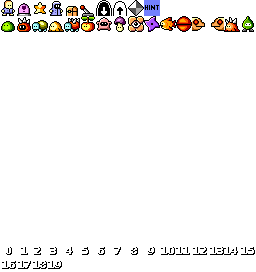
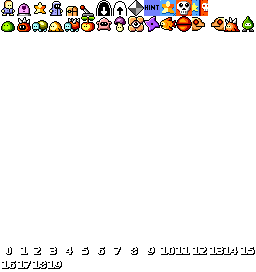
Giant orbs

Changed region(s): [[0.625, 0.0, 0.8125, 0.0588]]

diff --git a/src/orb.ts b/src/orb.ts
@@ -1,0 +1,108 @@
+import { Camera } from "./camera.js";
+import { Canvas } from "./canvas.js";
+import { CoreEvent } from "./core.js";
+import { StrongInteractionTarget } from "./interactiontarget.js";
+import { MessageBox } from "./messagebox.js";
+import { Player } from "./player.js";
+import { ProgressManager } from "./progress.js";
+import { Sprite } from "./sprite.js";
+import { Vector2 } from "./vector.js";
+
+
+export class Orb extends StrongInteractionTarget {
+
+
+    private wave : number;
+    private broken : boolean;
+
+    private itemCount : number;
+
+    private readonly message : MessageBox;
+    private readonly progress : ProgressManager;
+    
+    public readonly id : number;
+
+
+    constructor(x : number, y : number, id : number, message : MessageBox, progress : ProgressManager) {
+
+        super(x, y, true);
+
+        this.spr = new Sprite(32, 32);
+        this.spr.setFrame(id, 0);
+
+        this.hitbox = new Vector2(16, 8);
+
+        this.wave = 0.0;
+        this.broken = false;
+        this.id = id;
+
+        this.message = message;
+        this.progress = progress;
+
+        this.itemCount = 0;
+
+        // this.offCameraRadius = 16;
+    }
+
+
+    public setItemCount(c : number) {
+
+        this.itemCount = c;
+    }
+
+
+    protected interactionEvent(player : Player, camera : Camera, event : CoreEvent) {
+
+        // let msg : Array<string>;        
+    }
+
+
+    protected updateLogic(event : CoreEvent) {
+
+        const WAVE_SPEED = 0.067;
+
+        this.wave = (this.wave + WAVE_SPEED*event.step) % (Math.PI*2);
+    }
+
+
+    public draw(canvas : Canvas) {
+
+        const Y_OFF = -4;
+        const AMPLITUDE = 3;
+
+        let bmp = canvas.assets.getBitmap("orb");
+
+        if (!this.inCamera || this.broken) return;
+
+        let y = this.pos.y-24 + Y_OFF + Math.round(Math.sin(this.wave) * AMPLITUDE);
+
+        canvas.drawSprite(this.spr, bmp, 
+            this.pos.x - this.spr.width/2, y);
+    }
+
+
+    public postDraw(canvas : Canvas) {
+
+        const TYPE = ["stars", "kills"];
+        const SYMBOL = [":", "="];
+        const TEXT_OFF = -45;
+
+        if (!this.inCamera || this.broken) return;
+
+        let s = String(String(this.progress.getNumberProperty(TYPE[this.id], 0))) 
+            + "/" + String(this.itemCount);
+
+        let font = canvas.assets.getBitmap("fontBig");
+
+        canvas.drawText(font, SYMBOL[this.id], this.pos.x - s.length*4 - 8, 
+            this.pos.y+TEXT_OFF, -8, 0, true);
+        canvas.drawText(font, s, this.pos.x, this.pos.y+TEXT_OFF, -8, 0, true);
+    }
+
+
+    public breakSeal() {
+
+        this.broken = true;
+        this.spr.setFrame(this.id, 1);
+    }
+}

diff --git a/src/objectmanager.ts b/src/objectmanager.ts
@@ -22,6 +22,7 @@ import { TransitionEffectType } from "./transition.js";
 import { HintBox } from "./hintbox.js";
 import { HintTrigger } from "./hinttrigger.js";
 import { INSIDE_THEME_VOLUME, THEME_VOLUME } from "./game.js";
+import { Orb } from "./orb.js";
 
 
 export type SpawnProjectileCallback = 
@@ -66,6 +67,7 @@ export class ObjectManager {
     private chests : Array<Chest>;
     private checkpoints : Array<SavePoint>;
     private hintTriggers : Array<HintTrigger>;
+    private orbs : Array<Orb>;
 
     private readonly message : MessageBox;
     private readonly progress : ProgressManager;
@@ -100,6 +102,7 @@ export class ObjectManager {
         this.strongInteractionTargets = new Array<StrongInteractionTarget> ();
         this.doors = new Array<Door> ();
         this.enemies = new Array<Enemy> ();
+        this.orbs = new Array<Orb> ();
 
         this.stars = new Array<Star> ();
         this.chests = new Array<Chest> ();
@@ -114,6 +117,24 @@ export class ObjectManager {
         this.mergeDoorsToGeneralArray();
 
         camera.focusOnObject(this.player);
+
+        this.passItemCountToOrbs();
+    }
+
+
+    private passItemCountToOrbs() {
+
+        for (let o of this.orbs) {
+
+            if (o.id == 0) {
+
+                o.setItemCount(this.stars.length);
+            }
+            else if (o.id == 1) {
+
+                o.setItemCount(this.enemies.length);
+            }
+        }
     }
 
 
@@ -198,6 +219,14 @@ export class ObjectManager {
             this.message, this.saveManager);
         this.strongInteractionTargets.push(o);
         this.checkpoints.push(o);
+    }
+
+
+    public addOrb(x : number, y : number, id : number) {
+
+        let o = new Orb(x*16+8, y*16+8, id, this.message, this.progress);
+        this.strongInteractionTargets.push(o);
+        this.orbs.push(o);
     }
 
 
@@ -388,6 +417,11 @@ export class ObjectManager {
         for (let p of this.projectiles) {
 
             p.draw(canvas);
+        }
+
+        for (let o of this.strongInteractionTargets) {
+
+            o.postDraw(canvas);
         }
     }
 

diff --git a/src/stage.ts b/src/stage.ts
@@ -422,6 +422,17 @@ export class Stage {
                     objects.addHintTrigger(x, y, id, event);
                     break;
 
+                // Orbs
+                case 11:
+                case 12:
+                    objects.addOrb(x, y, tid-11);
+                    break;
+
+                // Portal
+                case 13:
+                    // ...
+                    break;
+
                 default:
 
                     if (tid >= 17 && tid < 17+16) {

diff --git a/src/player.ts b/src/player.ts
@@ -736,6 +736,7 @@ export class Player extends CollisionObject {
         }
 
         let rocketActive = !this.spinning &&
+            !this.throwing &&
             ((this.doubleJump && this.jumpTimer > 0) || this.flapping);
 
         if (!rocketActive && (this.sliding || !this.canJump || this.spinning ||
